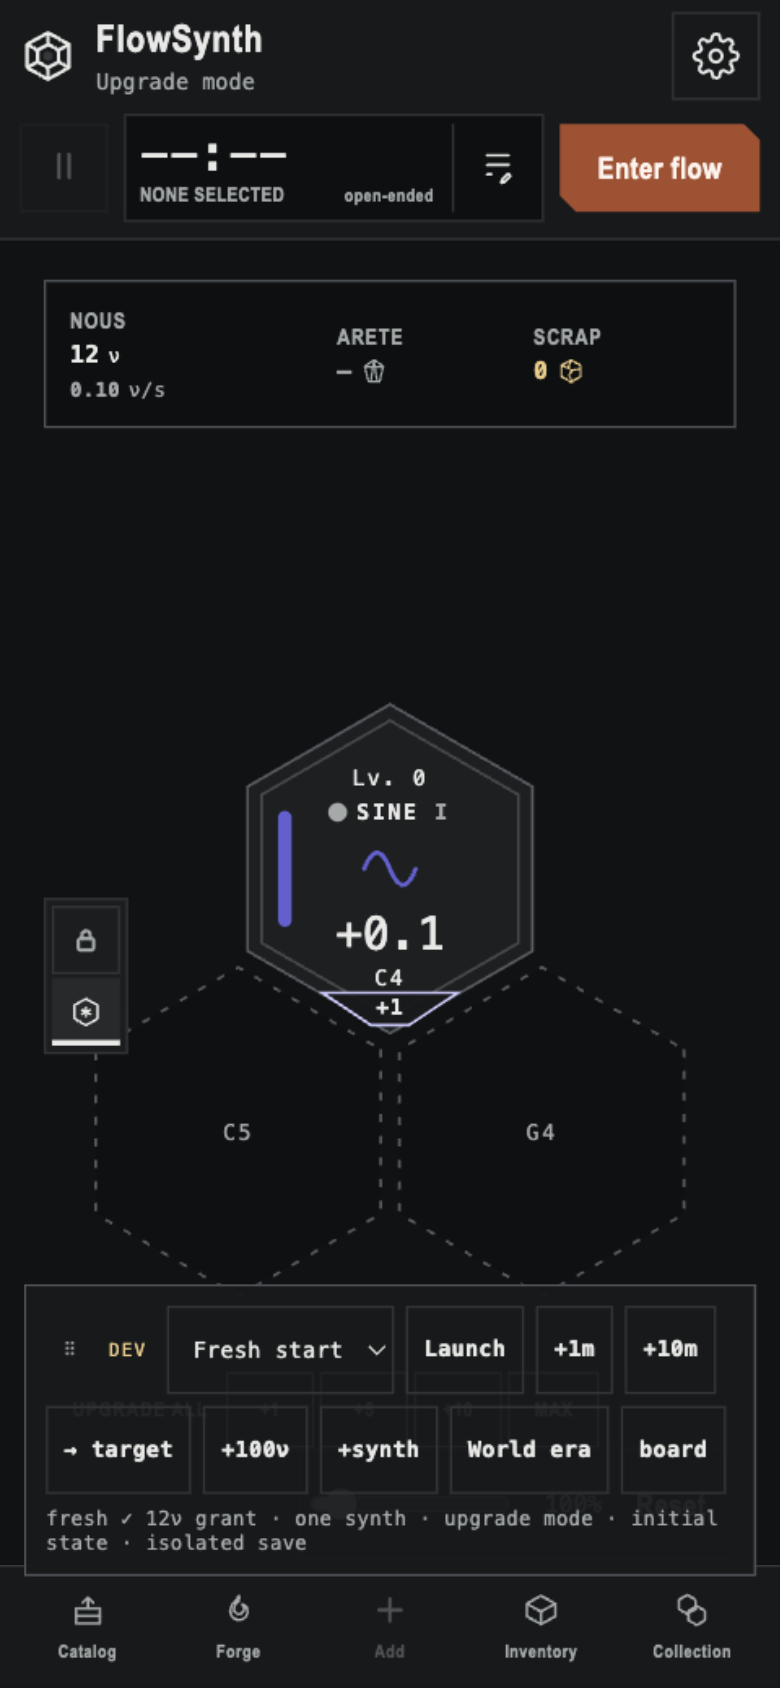
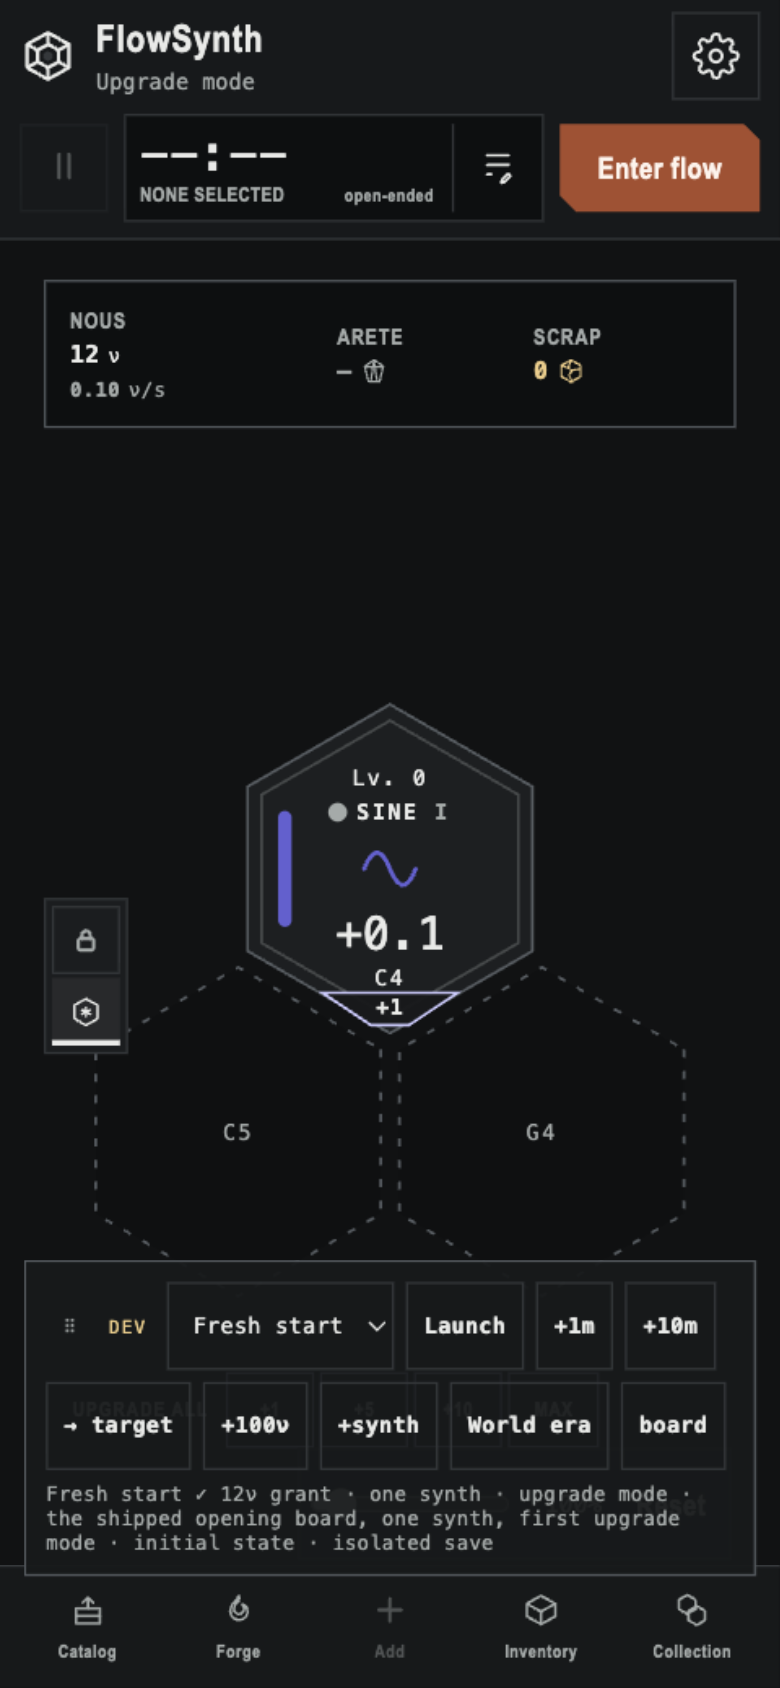
Recapture scenario suite evidence at the review-fix revision (#467)

diff --git a/docs/evidence/scenario-suite-2026-10-22/README.md b/docs/evidence/scenario-suite-2026-10-22/README.md
@@ -1,26 +1,26 @@
 # Scenario suite evidence — issue #467, 2026-10-22
 
-Captures taken from the verified checkout: worktree `/Users/eggfam/.t3/worktrees/flowsynth/t3-b480e3b2`, branch `t3/issue-467`, source commit `21ccf0504f40c0af1b1f341c368b9d0566603409`, clean source — the capture preflight accepted that commit before the first capture. URL: `http://localhost:5173/?dev=1`. The tab's origin carried an unrelated pre-existing development save from earlier evidence work on this port; that state serves as the "ordinary save" every capture must not disturb — a stronger isolation demonstration than a clean origin.
+Captures taken from the verified checkout: worktree `/Users/eggfam/.t3/worktrees/flowsynth/t3-b480e3b2`, branch `t3/issue-467`, source commit `68c0fae9a2eea392bf2a09bbaaa54aa006444590`, clean source — the capture preflight accepted that commit before the first capture. URL: `http://localhost:5173/?dev=1`. The tab's origin carried an unrelated pre-existing development save from earlier evidence work on this port; that state serves as the "ordinary save" every capture must not disturb — a stronger isolation demonstration than a clean origin. (An earlier pass at `21ccf05` was superseded by the review-fix commit; this pass recaptured every shot at the final revision.)
 
 ## Desktop (1280×800)
 
-1. `01-desktop-fresh-suite-entry.png` — a dev boot over the tab's ordinary save (44.9ν, two habits): the dev panel bottom-left with the grip, the suite entry (the `Fresh start`/`Focus` select + `Launch`), and the standing controls. The suite select renders the app's catalog with the active scenario preselected.
-2. `02-desktop-fresh-start-launch.png` — after selecting Fresh start and pressing `Launch` in the panel: the shipped opening board (one Sine at C4, 12ν grant, upgrade mode), the panel note reading `fresh ✓ 12ν grant · one synth · upgrade mode · initial state · isolated save` — the launch declares its situation and origin in place.
-3. `03-desktop-focus-launch-plan.png` — after launching Focus the same way, `devScenarioAssert()` (returned clean), and `showFocusFace("plan")`: the PLAN face over the Piano evidence setup (60-minute goal 25 logged minutes in, Engineer Level 3 with 2 tree points free, a partial practice-roll meter, 33 banked rolls, 912ν), the note reading `focus ✓ Piano · daily 60m · 25m logged · Engineer Lv 3 · constructed fixture · isolated save`.
+1. `01-desktop-fresh-suite-entry.png` — a dev boot over the tab's ordinary save: the dev panel bottom-left with the grip, the suite entry (the `Fresh start`/`Focus` select + `Launch`), and the standing controls. The suite select renders the app's catalog with the active scenario preselected.
+2. `02-desktop-fresh-start-launch.png` — after selecting Fresh start and pressing `Launch` in the panel: the shipped opening board (one Sine at C4, 12ν grant, upgrade mode), the panel note reading `Fresh start ✓ 12ν grant · one synth · upgrade mode · the shipped opening board, one synth, first upgrade mode · initial state · isolated save` — the launch declares its figures, situation, origin, and isolation in one standing line.
+3. `03-desktop-focus-launch-plan.png` — after launching Focus the same way, `devScenarioAssert()` (returned clean), and `showFocusFace("plan")`: the PLAN face over the Piano evidence setup (60-minute goal 25 logged minutes in, Engineer Level 3 with 2 tree points free, a partial practice-roll meter, banked rolls waiting), the note reading `Focus ✓ Piano · daily 60m · 25m logged · Engineer Lv 3 · session preparation with class development (#456) · constructed fixture · isolated save`.
 4. `04-desktop-stale-setup-failure.png` — after removing the scenario goal and re-running `devScenarioAssert()`: the named failure (`Focus scenario: expected the active goal on "Piano" — none found.`) in the panel's ✗ line. A relaunch restored the ✓ line (evaluate read).
 
 ## Phone (390×844, live viewport confirmed by in-page read)
 
-5. `05-phone-suite-entry-launch.png` — the panel wraps with the grip leading; the select and Launch sit at the 44px touch floor (evaluate read: select 44, launch 44, grip 28); the fresh-start note wraps onto its own rows (`fresh ✓ 12ν grant · one synth · upgrade mode · initial state · isolated save`). The opening board fits behind it; the thumb bar stays reachable.
+5. `05-phone-suite-entry-launch.png` — the panel wraps with the grip leading; the select and Launch sit at the 44px touch floor (evaluate read: select 44, launch 44, grip 28); the fresh-start declaration wraps onto its own rows beneath the controls. The opening board fits behind it; the thumb bar stays reachable.
 6. `06-phone-select-keyboard-focus.png` — keyboard disclosure: one Tab from the grip landed on `#dev-scenario` (evaluate read: `activeElement.id === "dev-scenario"`, `matches(":focus-visible") === true`) and the capture shows its clear rectangular focus ring.
 
 ## Behavior reads recorded during the pass (evaluate, not captures)
 
 - **Ordinary-save preservation:** after the fresh-start launch, a mutation + explicit `save()` + a `beforeunload` write left the ordinary slot byte-identical (`ordinaryUnchanged: true`).
-- **Reload drops the scenario:** navigating the tab again booted from the ordinary save (the pre-existing development state — two habits, 44.9ν), `devScenarioId` null. The scenario never reached the slot.
+- **Reload drops the scenario:** navigating the tab again booted from the ordinary save (the pre-existing development state), `devScenarioId` null. The scenario never reached the slot.
 - **Agent parity:** `app.devLaunchScenario("focus")` called directly on `window.__flowsynth` installed the Focus setup — the same method the panel's Launch button drives; `devScenarioAssert()` returned clean.
-- **Unknown id refused by name:** `app.devLaunchScenario("speedrun")` → `Dev: no scenario "speedrun" — the suite offers fresh-start, focus.`
-- **Recovery-proof:** with Focus installed, a newer unrelated save written to the ordinary slot and announced through a real `storage` event left the setup standing (habits `[Piano]`, nous 912) — the tab reads only its private slot.
+- **Unknown id refused by name:** `app.devLaunchScenario("nope")` → `Dev: no scenario "nope" — the suite offers fresh-start, focus.`
+- **Recovery-proof:** with Focus installed, a newer unrelated save written to the ordinary slot and announced through a real `storage` event left the setup standing (habits `[Piano]`) — the tab reads only its private slot.
 - **Suite entry drives the same command:** the captures' launches were driven through the panel's select + Launch control; the recorded reads show the same `devScenarioId`/note the direct method produces.
 
 ## Unavailable checks
@@ -35,8 +35,8 @@ Captures taken from the verified checkout: worktree `/Users/eggfam/.t3/worktrees
 One mapping per acceptance criterion of issue #467, each to a named check, recorded evidence, or an explicit unavailable check. Automated names cite assertions that would fail if the behavior regressed; a green suite count proves none of this on its own.
 
 1. *One application-facing playtesting command boundary shared by scenario UI and agent access; prefer existing seams, only prefactor what this slice needs.* — Automated, `src/ui/app.scenarios.test.ts`: "the dev panel's suite entry > drives the same launch command the app method is" (the panel's select+Launch and the direct `devLaunchScenario` produce the same install and readout) and "the suite's catalog > declares the fresh start and the Focus setup…" (`devScenarios()` is the one catalog read; the boundary is `devLaunchScenario`/`devScenarioAssert` over the existing SharedSave/memorySaveStorage and focus-scenario seams — no parallel install path survived). Behavior reads above record the same commands running from `window.__flowsynth`.
-2. *Suite entry and scenario selection for fresh-start and existing Focus; each launch inspectable, playable, declaring situation and origin.* — Automated: the catalog case pins ids, names, situations, origins; "launching fresh start installs the shipped opening state…" and "launching Focus through the same boundary keeps the prior guarantees" pin each install's inspectable, playable state (upgrade mode, ordinary GameState). Manual: captures 1–3 (suite entry, both launches' declared note lines) and 5 (phone entry).
-3. *Assert before installation, detach to private in-memory storage before writes, rebuild on repeat launch, no shared-save adoption of unrelated state.* — Automated: "launching fresh start…"/"launching Focus…" (candidate built and asserted before the slot swap; explicit save + unload writes land only in the private slot), "repeating a launch rebuilds the setup without accumulating, either scenario", "shared-save recovery cannot replace a launched scenario with unrelated state" (storage-event and visibility-return recovery, with the pre-launch control read). Behavior reads repeat the recovery intrusion in the real browser.
+2. *Suite entry and scenario selection for fresh-start and existing Focus; each launch inspectable, playable, declaring situation and origin.* — Automated: the catalog case pins ids, names, situations, origins; "launching fresh start installs the shipped opening state…" and "launching Focus through the same boundary keeps the prior guarantees" pin each install's inspectable, playable state (upgrade mode, ordinary GameState) and its standing declaration line (figures, situation, origin, isolation). Manual: captures 1–3 (suite entry, both launches' declared note lines) and 5 (phone entry).
+3. *Assert before installation, detach to private in-memory storage before writes, rebuild on repeat launch, no shared-save adoption of unrelated state.* — Automated: "launching fresh start…"/"launching Focus…" (candidate built and asserted before the slot swap; explicit save + unload writes land only in the private slot), "repeating a launch rebuilds the setup without accumulating, either scenario", "shared-save recovery cannot replace a launched scenario with unrelated state" (storage-event and visibility-return recovery, with the pre-launch control read), "an unknown scenario id refuses by name and leaves the installed scenario standing". Behavior reads repeat the recovery intrusion in the real browser.
 4. *Ordinary-save preservation through explicit save, unload, reload, and storage/visibility recovery, using the existing fixture and Focus prior art.* — Automated: the two launch cases assert the ordinary slot byte-identical after explicit save and unload, and the reload case boots back to the ordinary save; the recovery case drives storage-event and visibility recovery on the application fixture. Manual: behavior reads (ordinary slot unchanged, reload returned the pre-existing save, intrusion left the setup standing).
 5. *Instrument standards and draggable-console contract; desktop and sensible phone entry evidence.* — Manual: captures 1–6 (square-cut select at the controls-sheet register, the ✓/✗ note as plain text on its own row, keyboard focus ring, the ADR-0050 grip unchanged). Automated: "the dev panel's suite entry > is absent on a normal instrument" and the unchanged drag-handle suite. Unavailable: reduced-motion emulation, greyscale pass, human-finger touch (above).
-6. *Parent stories 4–7 and the initial scenario/command portions of 3, 9–10, 30, 38.* — Story 4 (Focus stays available): the Focus descriptor delegates to `engine/focus-scenario.ts`, unchanged; "launching Focus through the same boundary keeps the prior guarantees". Story 5 (presets assert their intended situations): "fails clearly when the setup drifts, and relaunch restores it" + "asserts a fresh start by its own named facts". Story 6 (launches isolated from the ordinary save): criterion 3–4 rows. Story 7 (repeated launches rebuild): "repeating a launch rebuilds…". Story 3 portion (fresh-start preset): "launching fresh start installs the shipped opening state"; approaching-prestige/post-prestige/World presets are later tickets. Story 9 portion (constructed setups identified): origins in the catalog case and the note lines (captures 2–3). Story 10 portion (inspect or play a preset): the launches produce playable upgrade-mode state; capture 3 shows the PLAN face inspecting the Focus setup. Story 30 portion (same commands for agents): criterion 1 rows. Story 38 portion (phone entry/layout sensible): capture 5. **Recorded gaps (later tickets on this same boundary):** the remaining presets of story 3, scripted runs (story 10's remainder), the full inspection/action surface of story 30, and story 38's full suite layout beyond entry.
+6. *Parent stories 4–7 and the initial scenario/command portions of 3, 9–10, 30, and 38.* — Story 4 (Focus stays available): the Focus descriptor delegates to `engine/focus-scenario.ts`, unchanged; "launching Focus through the same boundary keeps the prior guarantees". Story 5 (presets assert their intended situations): "fails clearly when the setup drifts, and relaunch restores it" + "asserts a fresh start by its own named facts". Story 6 (launches isolated from the ordinary save): criteria 3–4 rows. Story 7 (repeated launches rebuild): "repeating a launch rebuilds…". Story 3 portion (fresh-start preset): "launching fresh start installs the shipped opening state"; approaching-prestige/post-prestige/World presets are later tickets. Story 9 portion (constructed setups identified): origins in the catalog case and the note lines (captures 2–3). Story 10 portion (inspect or play a preset): the launches produce playable upgrade-mode state; capture 3 shows the PLAN face inspecting the Focus setup. Story 30 portion (same commands for agents): criterion 1 rows — this slice's boundary carries the launch/assert/catalog commands; inspection and game-action command parity arrives with the later workflow tickets. Story 38 portion (phone entry/layout sensible): capture 5. **Recorded gaps (later tickets on this same boundary):** the remaining presets of story 3, scripted runs (story 10's remainder), the full inspection/action surface of story 30, and story 38's full suite layout beyond entry.
